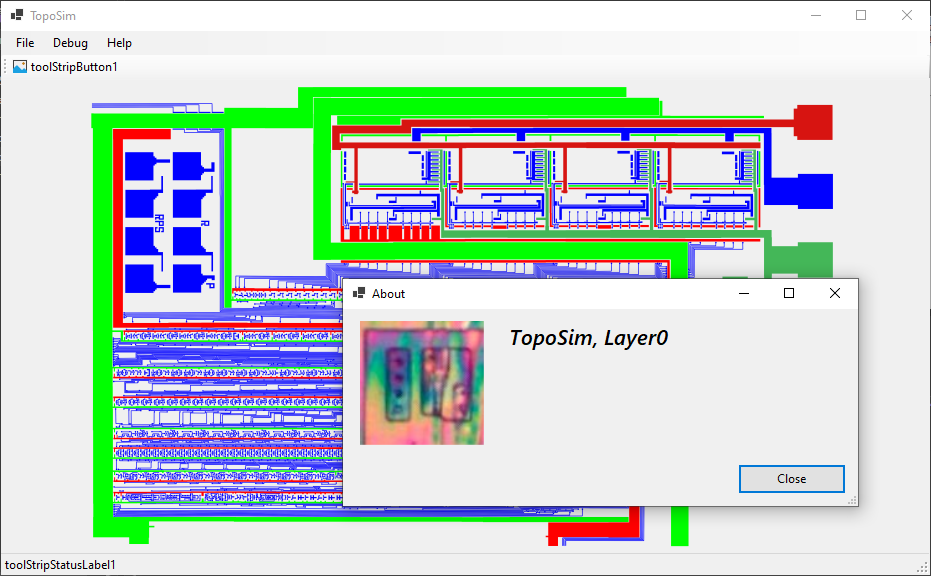
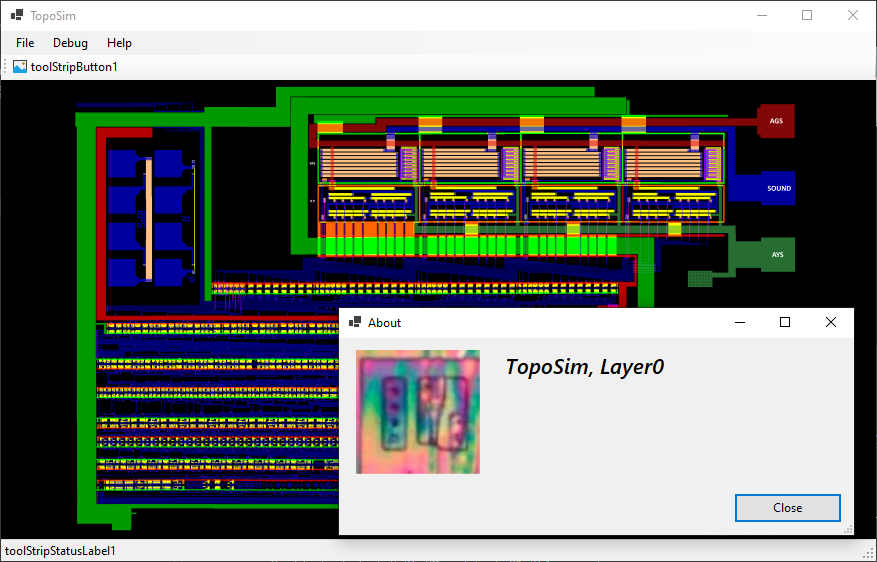
TopoSimLatest

diff --git a/TopoSim/FormMain.Designer.cs b/TopoSim/FormMain.Designer.cs
@@ -81,7 +81,7 @@
 			// loadImageToolStripMenuItem
 			// 
 			loadImageToolStripMenuItem.Name = "loadImageToolStripMenuItem";
-			loadImageToolStripMenuItem.Size = new Size(180, 22);
+			loadImageToolStripMenuItem.Size = new Size(145, 22);
 			loadImageToolStripMenuItem.Text = "Load Image...";
 			loadImageToolStripMenuItem.Click += loadImageToolStripMenuItem_Click;
 			// 
@@ -133,6 +133,7 @@
 			// 
 			// pictureBox1
 			// 
+			pictureBox1.BackColor = Color.Black;
 			pictureBox1.Dock = DockStyle.Fill;
 			pictureBox1.Location = new Point(0, 49);
 			pictureBox1.Name = "pictureBox1";
